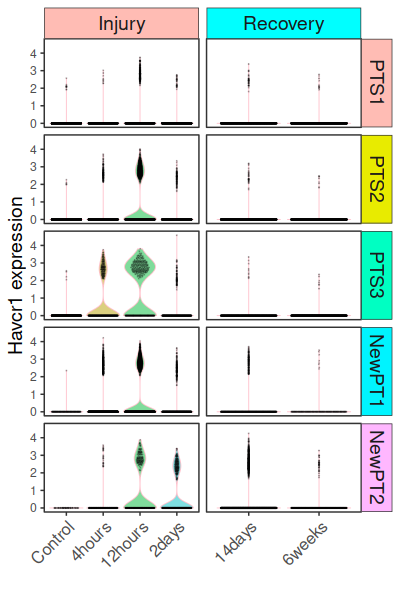
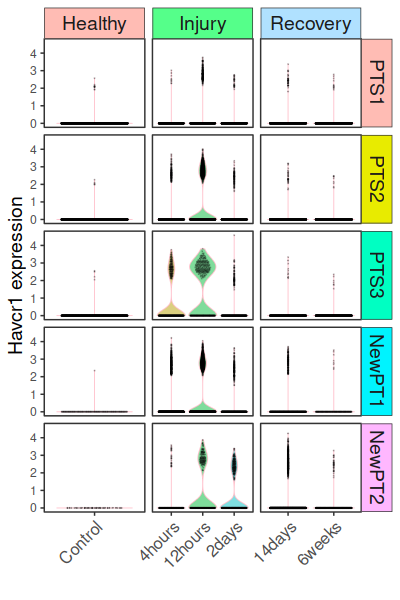
bud fix

diff --git a/README.md b/README.md
@@ -55,7 +55,7 @@ dev.off()
 ![alt text](https://github.com/HaojiaWu/Plot1cell/blob/master/data/dotplot_single.png) <br />
 If the group factor can be classified by another factor, complex_dotplot_single allows splitting the group factor by another group factor too. Here is an example for demo.
 ```
-iri.integrated@meta.data$Phase<-plyr::mapvalues(iri.integrated@meta.data$Group, from = levels(iri.integrated@meta.data$Group), to = c(rep("Injury",4), rep("Recovery",2)))
+iri.integrated@meta.data$Phase<-plyr::mapvalues(iri.integrated@meta.data$Group, from = levels(iri.integrated@meta.data$Group), to = c("Healthy",rep("Injury",3), rep("Recovery",2)))
 iri.integrated@meta.data$Phase<-as.character(iri.integrated@meta.data$Phase)
 png(filename =  'dotplot_single_split.png', width = 4, height = 6,units = 'in', res = 100)
 complex_dotplot_single(iri.integrated, feature = "Havcr1",groupby = "Group",splitby = "Phase")
